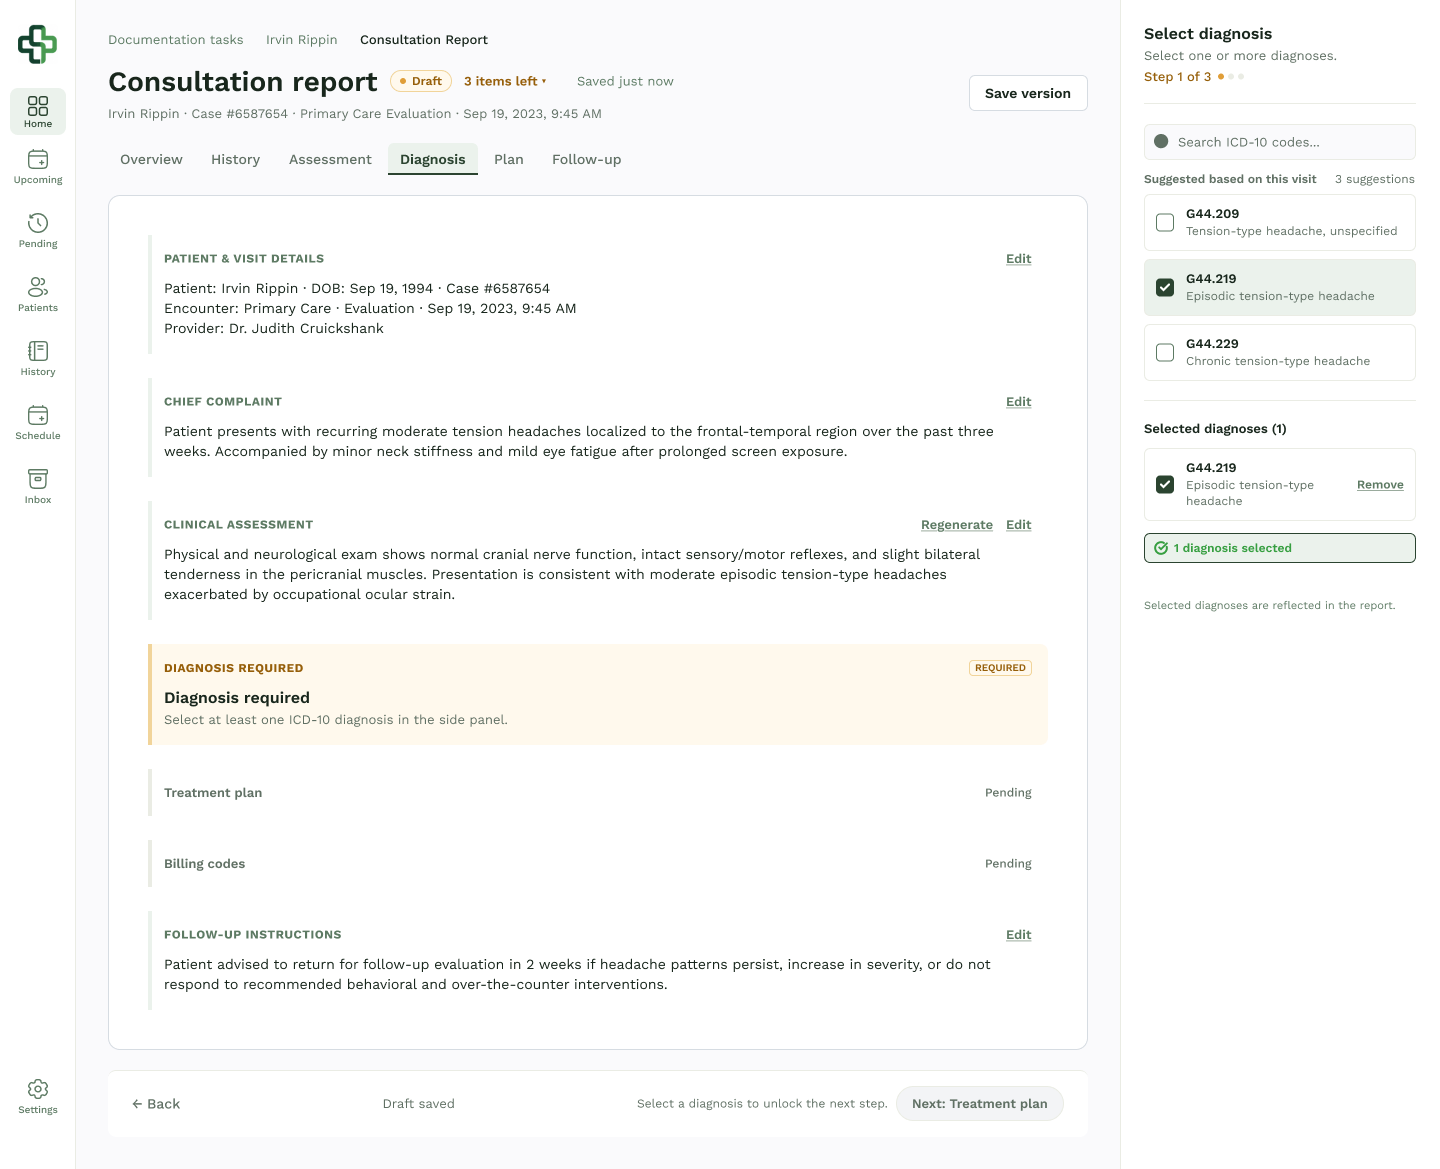
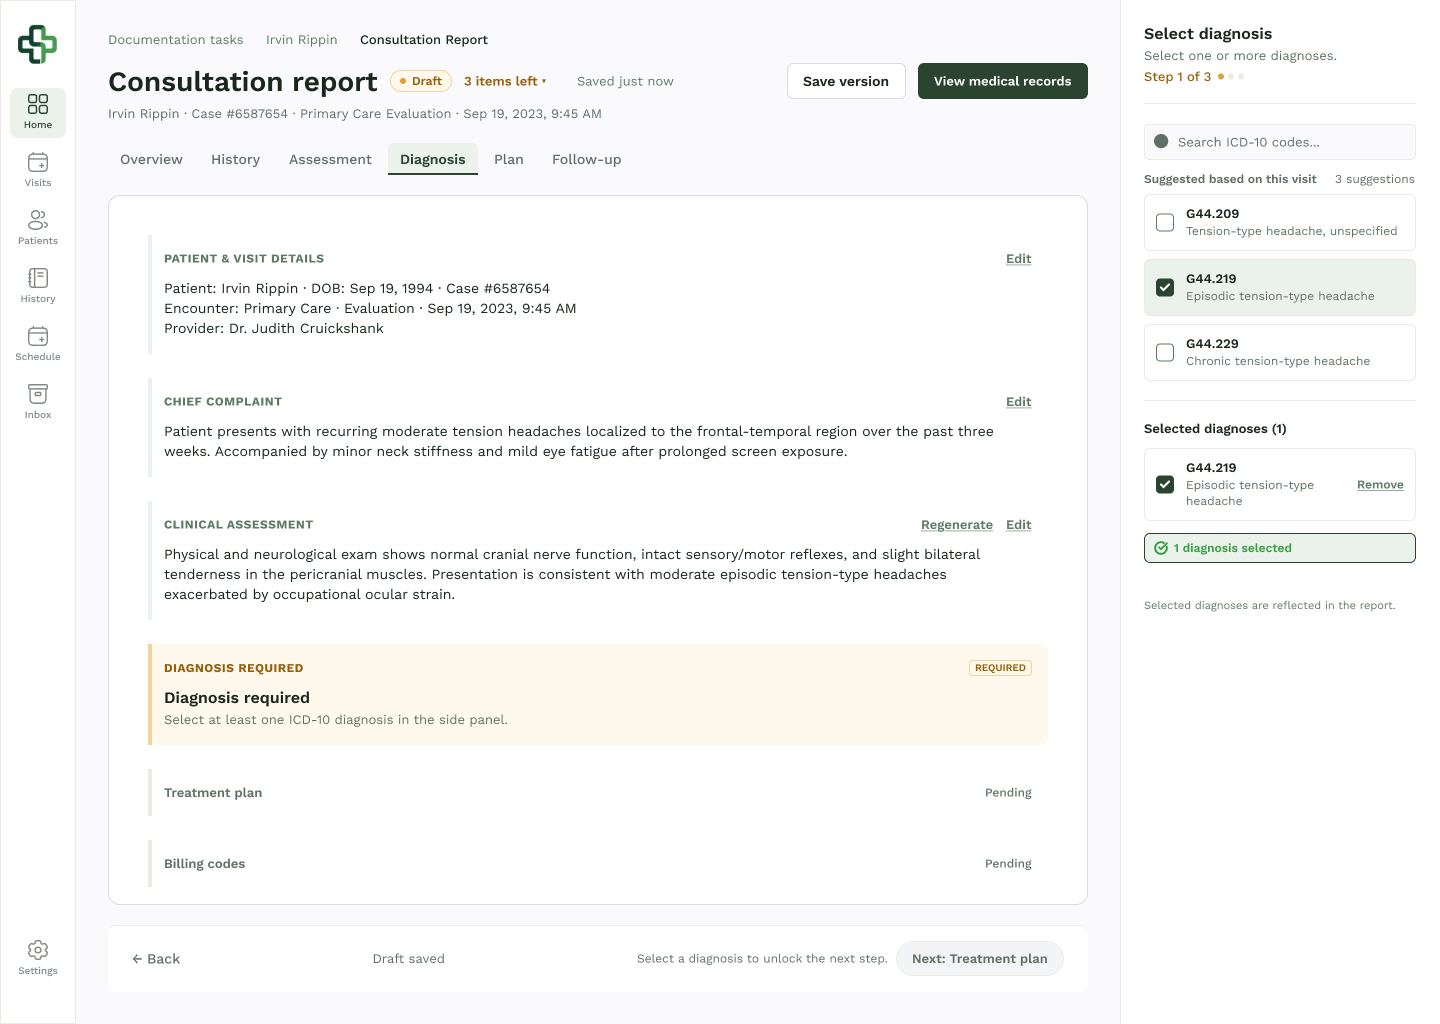
Re-export HealthConnect screen-2 after Figma height change
The Diagnosis screen's frame height changed in Figma (1169 -> 1024px,
now matching the other two screens exactly). Re-pulled it via the
Figma MCP and added a ?v=2 cache-bust so visitors don't get served
the stale cached PNG. As a side effect this also resolves the minor
overflow-y:auto fallback that screen previously needed on its panel.

diff --git a/healthconnect.html b/healthconnect.html
@@ -195,7 +195,7 @@
     <!-- PANEL 7: SCREEN 2 -->
     <section class="h-panel h-panel--screen">
       <div class="h-panel__inner">
-        <img class="h-panel__screen-img" src="assets/healthconnect/screen-2.png" alt="Consultation report for a patient visit, on the Diagnosis step: patient and visit details, chief complaint, clinical assessment, and a right-hand panel of suggested ICD-10 diagnoses with one selected" />
+        <img class="h-panel__screen-img" src="assets/healthconnect/screen-2.png?v=2" alt="Consultation report for a patient visit, on the Diagnosis step: patient and visit details, chief complaint, clinical assessment, and a right-hand panel of suggested ICD-10 diagnoses with one selected" />
         <div class="h-panel__screen-caption">
           <span class="case-screens-legend__tag">Core workflow</span>
           <h3 class="case-screens-legend__title">Consultation Report &amp; Diagnosis</h3>
